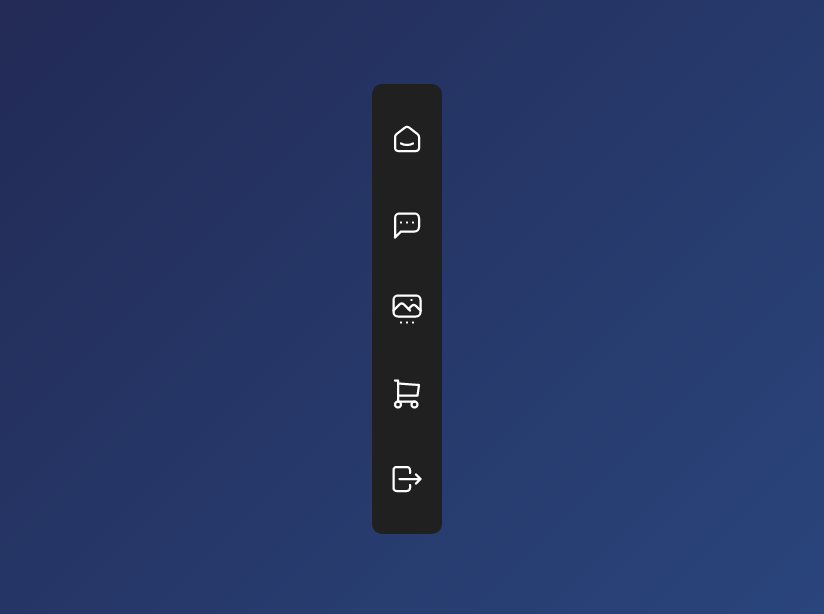
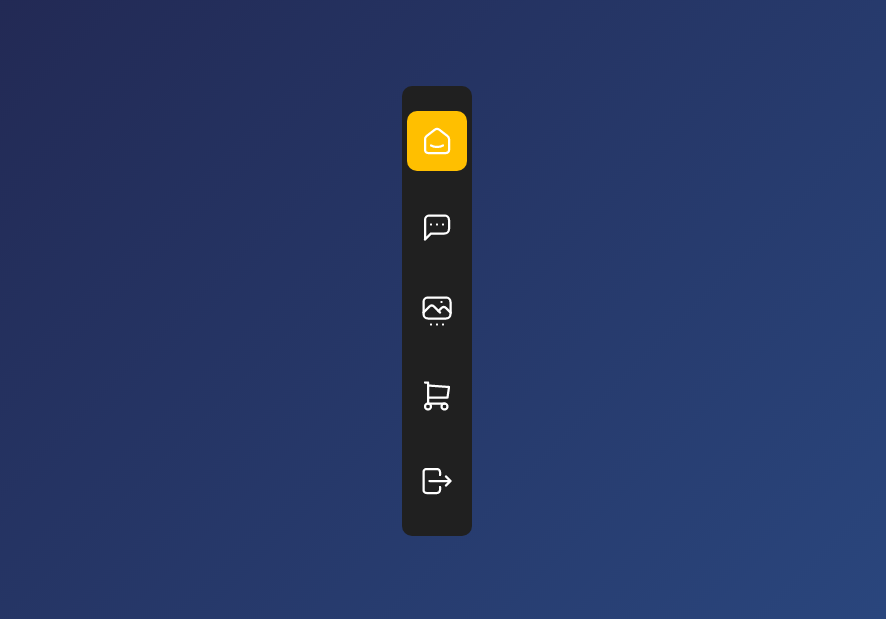
add picture

Changed region(s): [[0.4551, 0.1238, 0.5461, 0.8664], [0.4854, 0.8664, 0.5158, 0.8974]]

diff --git a/index.html b/index.html
@@ -8,7 +8,7 @@
 </head>
 <body>
     <div class="menu">
-        <div class="menu-item" title="خانه">
+        <div class="menu-item active" title="خانه">
             <svg xmlns="http://www.w3.org/2000/svg" class="icon icon-tabler icon-tabler-smart-home" width="36" height="36" viewBox="0 0 24 24" stroke-width="1.5"  fill="none" stroke-linecap="round" stroke-linejoin="round">
                 <path stroke="none" d="M0 0h24v24H0z" fill="none"/>
                 <path d="M19 8.71l-5.333 -4.148a2.666 2.666 0 0 0 -3.274 0l-5.334 4.148a2.665 2.665 0 0 0 -1.029 2.105v7.2a2 2 0 0 0 2 2h12a2 2 0 0 0 2 -2v-7.2c0 -.823 -.38 -1.6 -1.03 -2.105" />

diff --git a/style.css b/style.css
@@ -40,3 +40,6 @@ body {
     background-color: #ffbf00;
     stroke: #000;
 }
+.active{
+    background-color: #ffbf00;
+}
